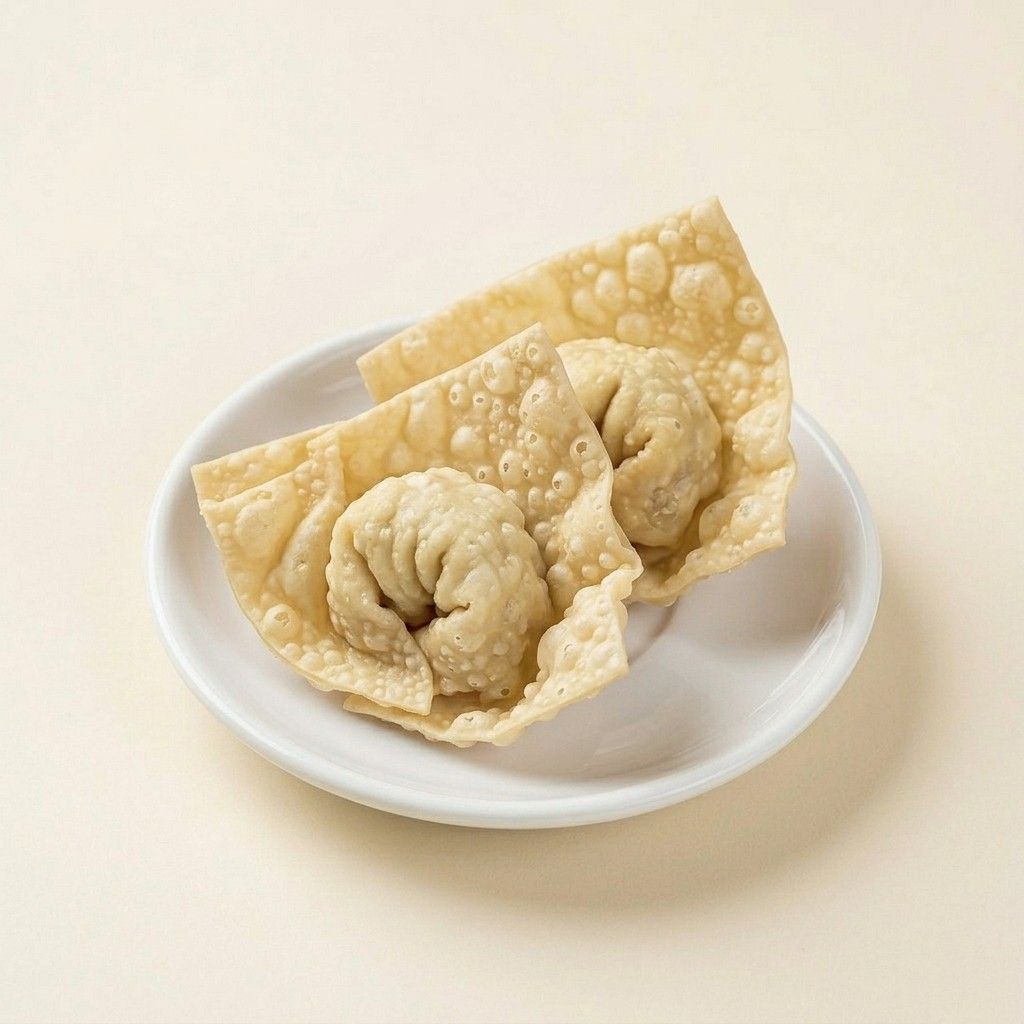
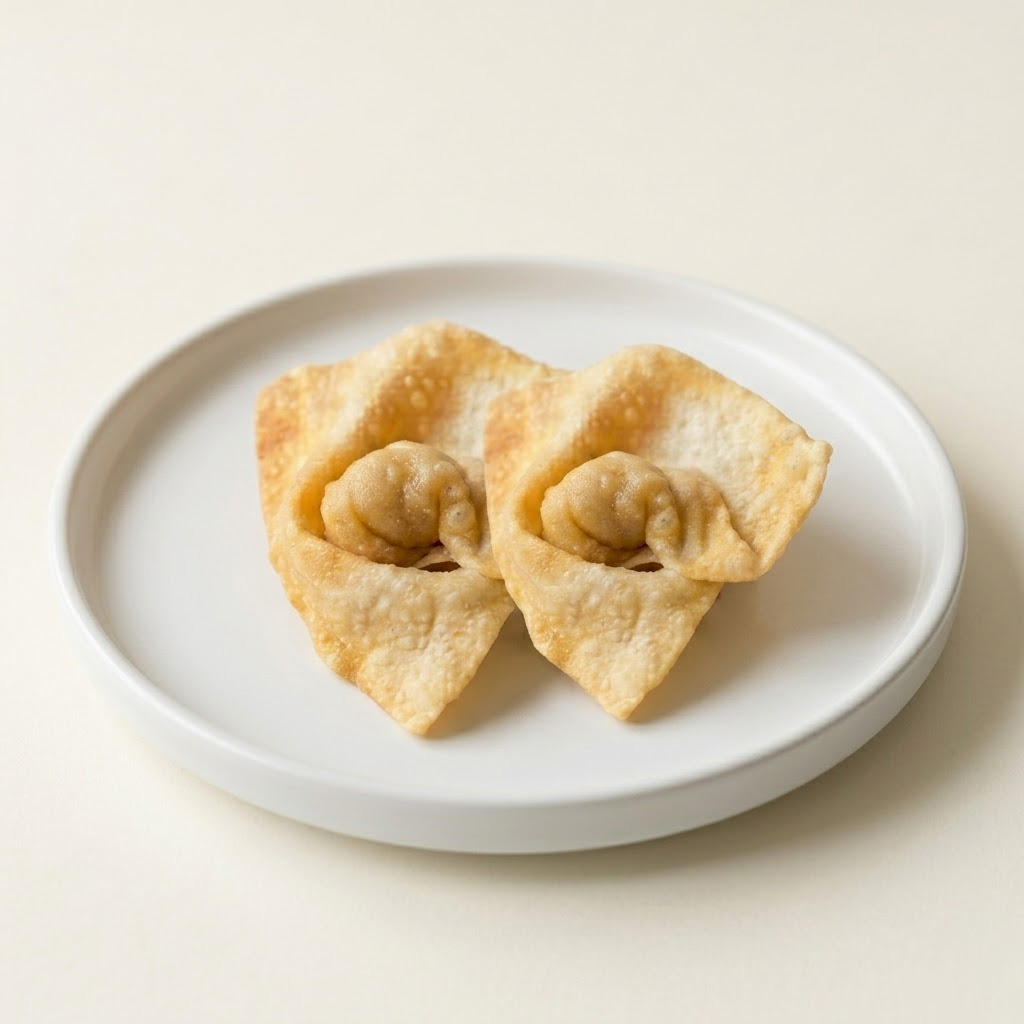
Add files via upload

diff --git a/index.html b/index.html
@@ -258,9 +258,19 @@
                     { name: "Kwetiau", price: 16000, desc: "Kwetiau khas, ayam dadu, sawi, dan daun bawang dengan kuah kaldu.", img: "img/kwetiau.jpeg", hasTopping: true },
                     { name: "Bihun", price: 16000, desc: "Bihun khas, ayam dadu, sawi, dan daun bawang dengan kuah kaldu ayam.", img: "img/bihun.jpeg", hasTopping: true },
                     { name: "Pangsit Kuah", price: 18000, desc: "Pangsit rebus isi 10, ayam dadu, sawi, dan daun bawang dengan kuah kaldu.", img: "img/pangsit-kuah.jpeg", hasTopping: false },
-                    { name: "Bakso Sapi", price: 16000, desc: "Bakso sapi isi 10, bawang goreng, dan seledri dengan kuah kaldu.", img: "img/bakso-sapi.jpeg", hasTopping: false },
-                    { name: "Bakso Ikan", price: 18000, desc: "Bakso ikan isi 8, bawang goreng, dan seledri dengan kuah kaldu.", img: "img/bakso-ikan.jpeg", hasTopping: false },
+                    { name: "Pangsit Kuah 1/2", price: 10000, desc: "Pangsit rebus isi 5, ayam dadu, sawi, dan daun bawang dengan kuah kaldu.", img: "img/pangsit-kuah-set.jpeg", hasTopping: false },
                     { name: "Bakso Campur", price: 18000, desc: "Bakso sapi 5 & ikan 4, bawang goreng, dan seledri dengan kuah kaldu.", img: "img/bakso-campur.jpeg", hasTopping: false },
+                    { name: "Bakso Sapi", price: 16000, desc: "Bakso sapi isi 10, bawang goreng, dan seledri dengan kuah kaldu.", img: "img/bakso-sapi.jpeg", hasTopping: false },
+                    { name: "Bakso Sapi 1/2", price: 8000, desc: "Bakso sapi isi 5, bawang goreng, dan seledri dengan kuah kaldu.", img: "img/bakso-sapi-set.jpeg", hasTopping: false },
+                    { name: "Bakso Ikan", price: 18000, desc: "Bakso ikan isi 8, bawang goreng, dan seledri dengan kuah kaldu.", img: "img/bakso-ikan.jpeg", hasTopping: false },
+                    { name: "Bakso Ikan 1/2", price: 10000, desc: "Bakso ikan isi 4, bawang goreng, dan seledri dengan kuah kaldu.", img: "img/bakso-ikan-set.jpeg", hasTopping: false },
+                    { name: "Pangsit Goreng", price: 26000, desc: "Pangsit goreng isi 8, kulit pangsit dengan isian daging ayam halus.", img: "img/pangsit-goreng.jpeg", hasTopping: false },
+                    { name: "Pangsit Goreng 1/2", price: 14000, desc: "Pangsit goreng isi 4, kulit pangsit dengan isian daging ayam halus.", img: "img/pangsit-goreng-set.jpeg", hasTopping: false },
+                    { name: "Pangsit Kuah Dua", price: 5000, desc: "Pangsit rebus isi 2, ayam dadu, sawi, dan daun bawang dengan kuah kaldu.", img: "img/topping-pangsit-rebus.jpeg", hasTopping: false },
+                    { name: "Pangsit Goreng Dua", price: 7000, desc: "Pangsit goreng isi 2, kulit pangsit dengan isian daging ayam halus.", img: "img/topping-pangsit-goreng.jpeg", hasTopping: false },
+                    { name: "Bakso Sapi Dua", price: 4000, desc: "Bakso sapi isi 2, bawang goreng, dan seledri dengan kuah kaldu.", img: "img/topping-bakso-sapi.jpeg", hasTopping: false },
+                    { name: "Bakso Ikan Dua", price: 5000, desc: "Bakso ikan isi 2, bawang goreng, dan seledri dengan kuah kaldu.", img: "img/topping-bakso-ikan.jpeg", hasTopping: false },
+                    { name: "Kerupuk Putih", price: 2000, desc: "Kerupuk mawah putih isi 1", img: "img/kerupuk-mawar.jpeg", hasTopping: false },
                 ]
             },
             {
@@ -463,7 +473,7 @@
                 message += `${index + 1}. ${item.fullName} (${item.quantity}x)\n`;
             });
             message += `\n*TOTAL: ${formatCurrency(total)}*`;
-            window.open(`https://wa.me/6281280906333?text=${encodeURIComponent(message)}`, '_blank');
+            window.open(`https://wa.me/6281280666370?text=${encodeURIComponent(message)}`, '_blank');
         }
 
         window.onload = () => renderMenu();
